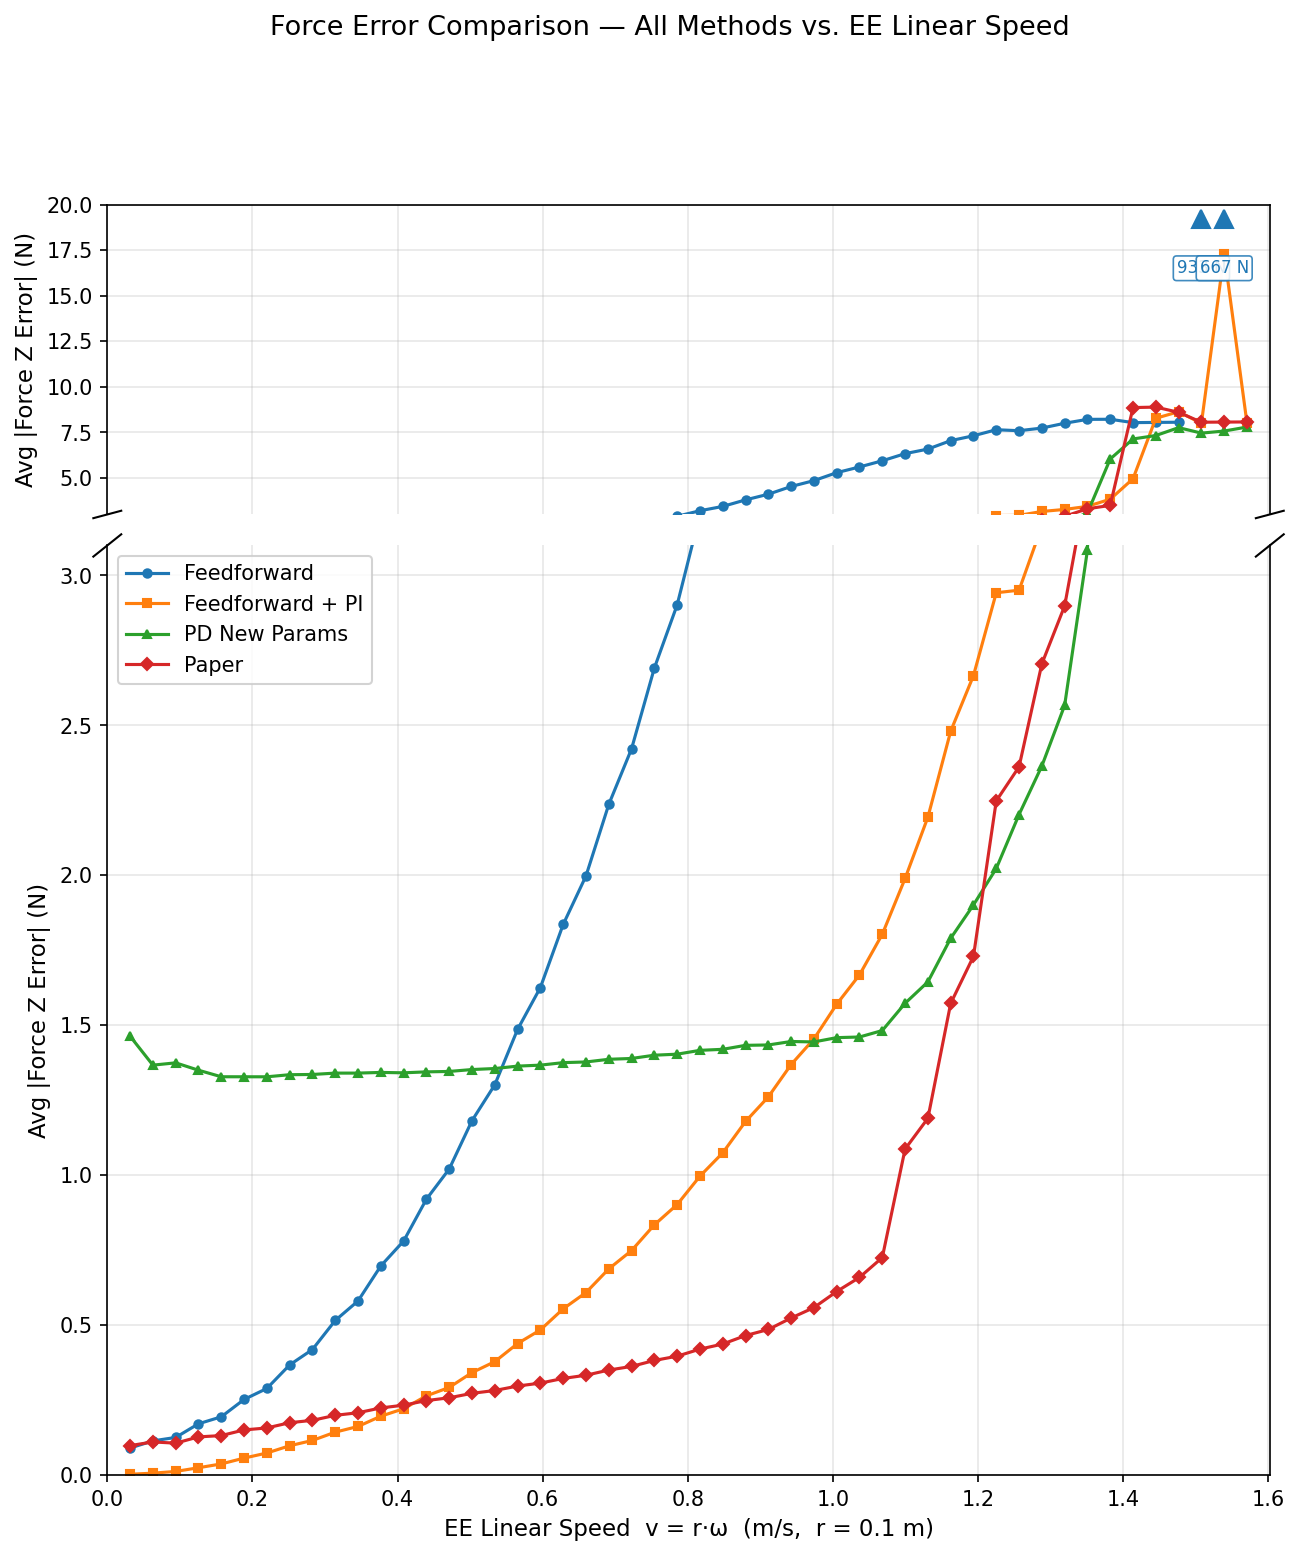
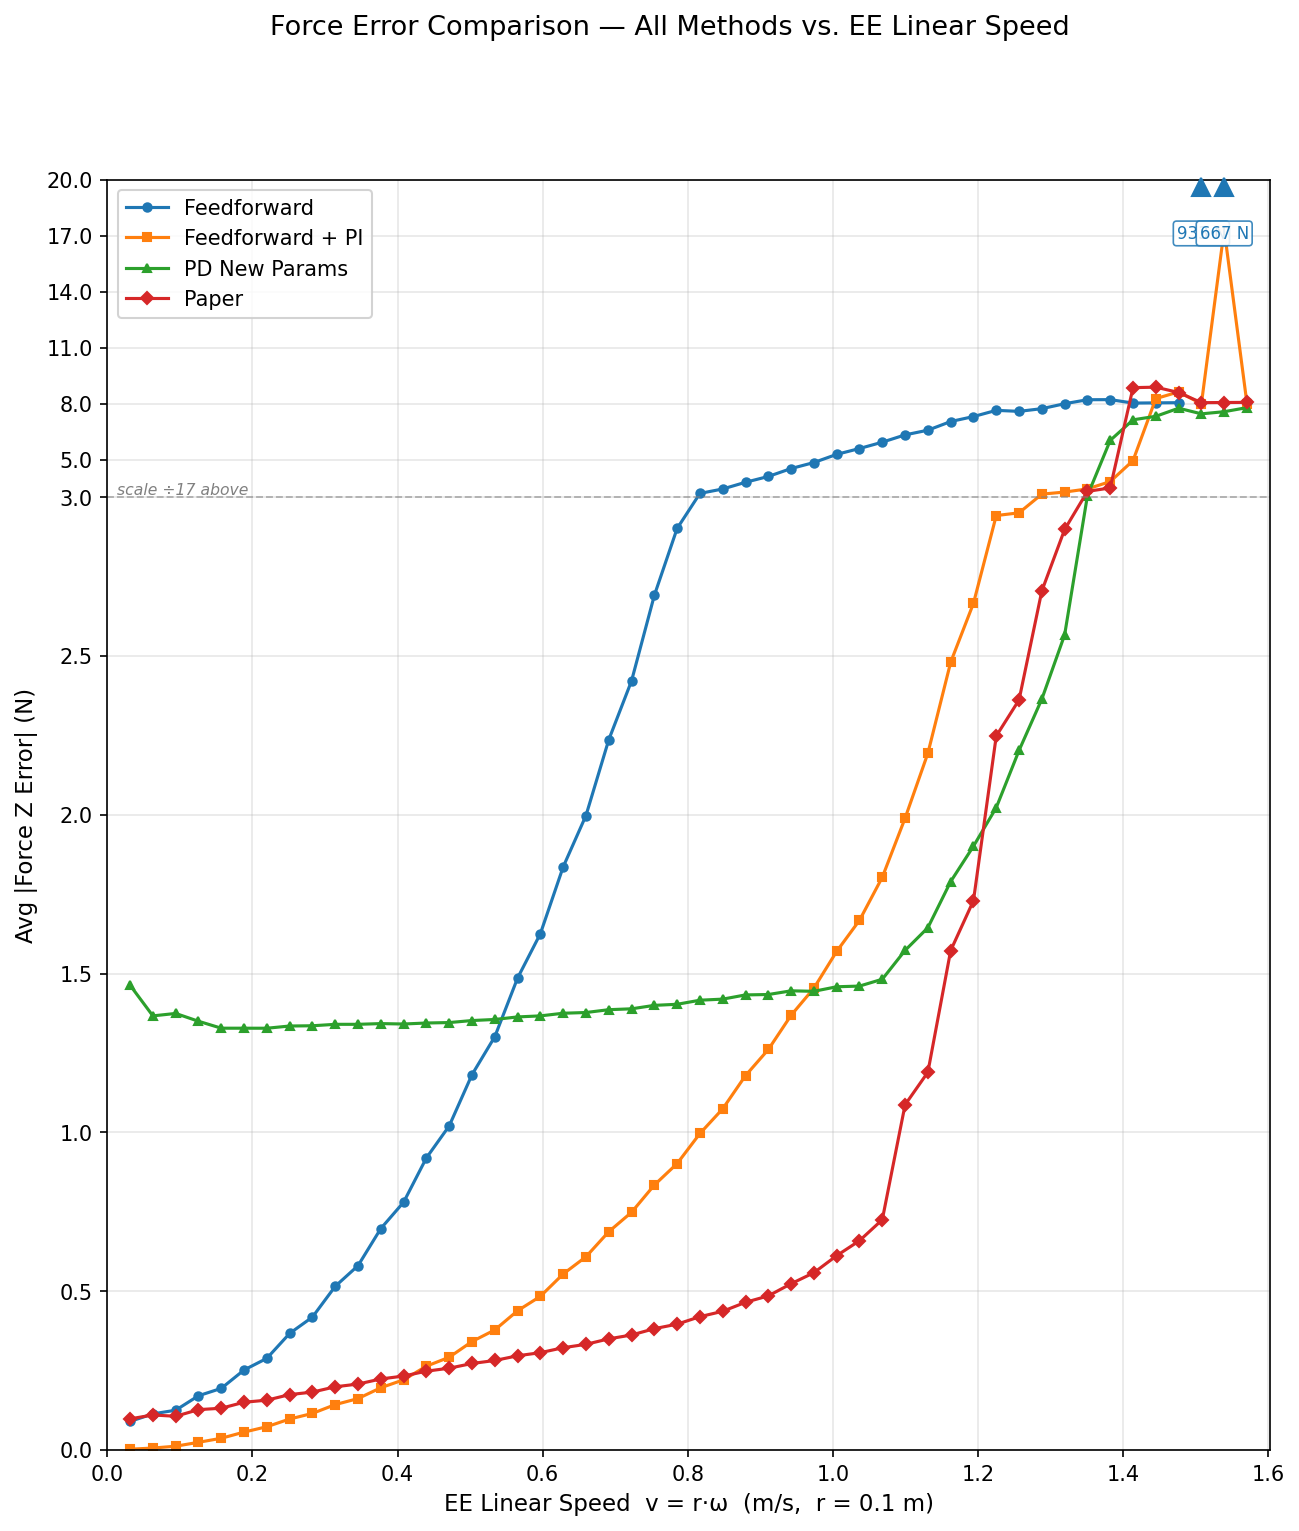
Replace broken axis with piecewise linear y-scale
Switch from two-subplot broken axis to a single continuous axis using
matplotlib FuncScale with a piecewise linear transform. 0–3 N occupies
~75% of the axis height (slope 1), 3–20 N is compressed 17× (slope 1/17),
matching the previous height_ratios=[1,3] visually without the // marks.

https://claude.ai/code/session_01QdQpPofsWMQJesNikDa1uv

diff --git a/angular_speed_sweep/plot_force_error_comparison.py b/angular_speed_sweep/plot_force_error_comparison.py
@@ -1,10 +1,12 @@
 """Compare avg force Z error across 4 control methods vs EE linear speed.
 
-Produces a broken-axis plot:
-  - Top panel  (short, compressed): y = 3–20 N
-  - Bottom panel (tall, detailed) : y = 0–3.1 N
-Extreme feedforward outliers (~932 N, ~667 N) are clipped to the top of the
-upper panel and annotated with their actual values.
+Produces a single-axis plot with a piecewise linear y-scale:
+  - y = 0–3 N  : full linear detail  (normal slope, tall)
+  - y = 3–20 N : compressed linear   (slope ÷17, ~25% of axis height)
+
+This matches the visual emphasis of the previous broken-axis version while
+keeping a single continuous y-axis.  Extreme feedforward outliers (~932 N,
+~667 N) are clipped to TOP_MAX and annotated.
 
 Usage:
     python angular_speed_sweep/plot_force_error_comparison.py
@@ -17,7 +19,7 @@ import csv
 import os
 import numpy as np
 import matplotlib.pyplot as plt
-import matplotlib.gridspec as gridspec
+import matplotlib.ticker as ticker
 
 SCRIPT_DIR = os.path.dirname(os.path.abspath(__file__))
 PLOTS_DIR = os.path.join(SCRIPT_DIR, "plots")
@@ -30,10 +32,22 @@ METHODS = [
     ("Paper",            os.path.join(PLOTS_DIR, "paper",            "sweep_results.csv"), "tab:red",    "D"),
 ]
 
-# y-axis break: show 0..BOT_MAX in detail, BOT_MAX..TOP_MAX compressed.
-BOT_MAX = 3.1
-TOP_MAX = 20.0
-BREAK_Y = 3.0
+# Piecewise linear scale parameters
+BREAK    = 3.0   # N — inflection point
+COMPRESS = 17.0  # above BREAK: each N takes 1/17 of a normal N's visual height
+TOP_MAX  = 20.0  # N — axis ceiling (extreme outliers annotated separately)
+
+
+def forward(y):
+    """Data → display transform (piecewise linear)."""
+    y = np.asarray(y, dtype=float)
+    return np.where(y <= BREAK, y, BREAK + (y - BREAK) / COMPRESS)
+
+
+def inverse(z):
+    """Display → data transform (inverse of forward)."""
+    z = np.asarray(z, dtype=float)
+    return np.where(z <= BREAK, z, BREAK + (z - BREAK) * COMPRESS)
 
 
 def load_csv(path):
@@ -50,82 +64,60 @@ def load_csv(path):
 
 
 def main():
-    # ── Load all four datasets ────────────────────────────────────────────────
+    # ── Load data ─────────────────────────────────────────────────────────────
     datasets = []
     for name, path, color, marker in METHODS:
         v, err = load_csv(path)
         datasets.append((name, v, err, color, marker))
 
-    # ── Figure with broken y-axis ─────────────────────────────────────────────
-    fig = plt.figure(figsize=(10, 11))
-    gs = gridspec.GridSpec(2, 1, height_ratios=[1, 3], hspace=0.05)
-    ax_top = fig.add_subplot(gs[0])  # y: BREAK_Y .. TOP_MAX
-    ax_bot = fig.add_subplot(gs[1])  # y: 0 .. BOT_MAX
+    # ── Figure ────────────────────────────────────────────────────────────────
+    fig, ax = plt.subplots(figsize=(10, 11))
 
-    # ── Plot all methods on both panels ───────────────────────────────────────
+    # ── Plot all 4 methods (clip extreme outliers to NaN so they don't distort)
     for name, v, err, color, marker in datasets:
-        # Clip values above TOP_MAX so they don't mess up axes (handled separately)
-        err_clipped = np.where(err > TOP_MAX, np.nan, err)
+        err_plot = np.where(err > TOP_MAX, np.nan, err)
+        ax.plot(v, err_plot, marker=marker, color=color, label=name,
+                linewidth=1.5, markersize=4, markerfacecolor=color)
 
-        kw = dict(color=color, linewidth=1.5, markersize=4,
-                  marker=marker, markerfacecolor=color)
-        ax_top.plot(v, err_clipped, label=name, **kw)
-        ax_bot.plot(v, err_clipped, label=name, **kw)
+    # ── Apply piecewise linear y-scale ────────────────────────────────────────
+    ax.set_yscale("function", functions=(forward, inverse))
+    ax.set_ylim(0.0, TOP_MAX)
 
-    # ── Annotate extreme feedforward outliers ─────────────────────────────────
-    # feedforward: spikes at v≈1.508 (932 N) and v≈1.539 (667 N)
+    # ── Manual y-ticks: dense below BREAK, sparse above ───────────────────────
+    ax.set_yticks([0, 0.5, 1.0, 1.5, 2.0, 2.5, 3.0, 5, 8, 11, 14, 17, 20])
+    ax.yaxis.set_major_formatter(ticker.ScalarFormatter())
+
+    # ── Inflection guide line at y = BREAK ────────────────────────────────────
+    ax.axhline(BREAK, color="gray", linestyle="--", linewidth=0.9, alpha=0.55)
+    ax.annotate(
+        f"  scale ÷{COMPRESS:.0f} above",
+        xy=(0.0, BREAK), xycoords=("axes fraction", "data"),
+        fontsize=7.5, color="gray", style="italic", va="bottom",
+    )
+
+    # ── Annotate extreme feedforward outliers (>TOP_MAX) ──────────────────────
     ff_name, ff_v, ff_err, ff_color, _ = datasets[0]  # feedforward is first
     outlier_mask = ff_err > TOP_MAX
     for xi, yi in zip(ff_v[outlier_mask], ff_err[outlier_mask]):
-        # Draw a clipped triangle marker pointing up at top of panel
-        ax_top.plot(xi, TOP_MAX * 0.96, marker="^", color=ff_color,
-                    markersize=9, clip_on=False, zorder=5)
-        ax_top.text(xi, TOP_MAX * 0.85, f"{yi:.0f} N",
-                    color=ff_color, fontsize=8, va="top", ha="center",
-                    bbox=dict(boxstyle="round,pad=0.2", fc="white", ec=ff_color,
-                              lw=0.8, alpha=0.85))
+        ax.plot(xi, TOP_MAX * 0.98, marker="^", color=ff_color,
+                markersize=9, zorder=5, clip_on=False)
+        ax.text(
+            xi, TOP_MAX * 0.88, f"{yi:.0f} N",
+            color=ff_color, fontsize=8, ha="center", va="top",
+            bbox=dict(boxstyle="round,pad=0.2", fc="white",
+                      ec=ff_color, lw=0.8, alpha=0.85),
+        )
 
-    # ── Axis limits ───────────────────────────────────────────────────────────
-    ax_top.set_ylim(BREAK_Y, TOP_MAX)
-    ax_bot.set_ylim(0.0, BOT_MAX)
-
-    # Share x-axis range
-    x_min = 0.0
-    x_max = max(v.max() for _, v, _, _, _ in datasets) * 1.02
-    for ax in (ax_top, ax_bot):
-        ax.set_xlim(x_min, x_max)
-        ax.grid(True, alpha=0.3)
-
-    # ── Broken-axis cosmetics ─────────────────────────────────────────────────
-    ax_top.spines["bottom"].set_visible(False)
-    ax_bot.spines["top"].set_visible(False)
-    ax_top.tick_params(bottom=False, labelbottom=False)
-
-    # Diagonal break marks at the boundary between the two panels
-    d = 0.012  # fraction of axis size
-    kw_break = dict(color="k", clip_on=False, linewidth=1, transform=None)
-
-    for ax, ypos in [(ax_top, 0), (ax_bot, 1)]:
-        kw_break["transform"] = ax.transAxes
-        ax.plot((-d, +d), (ypos - d, ypos + d), **kw_break)
-        ax.plot((1 - d, 1 + d), (ypos - d, ypos + d), **kw_break)
-
-    # ── Labels and legend ─────────────────────────────────────────────────────
-    xlabel = "EE Linear Speed  v = r·ω  (m/s,  r = 0.1 m)"
-    ylabel = "Avg |Force Z Error| (N)"
-
-    ax_bot.set_xlabel(xlabel, fontsize=11)
-    ax_bot.set_ylabel(ylabel, fontsize=11)
-    ax_top.set_ylabel(ylabel, fontsize=11)
-
-    # Single legend on the bottom panel
-    handles, labels = ax_bot.get_legend_handles_labels()
-    ax_bot.legend(handles, labels, loc="upper left", fontsize=10,
-                  framealpha=0.85)
+    # ── Labels, legend, grid ──────────────────────────────────────────────────
+    ax.set_xlim(0.0, max(v.max() for _, v, _, _, _ in datasets) * 1.02)
+    ax.set_xlabel("EE Linear Speed  v = r·ω  (m/s,  r = 0.1 m)", fontsize=11)
+    ax.set_ylabel("Avg |Force Z Error| (N)", fontsize=11)
+    ax.legend(loc="upper left", fontsize=10, framealpha=0.85)
+    ax.grid(True, alpha=0.3)
 
     fig.suptitle(
         "Force Error Comparison — All Methods vs. EE Linear Speed",
-        fontsize=13, y=0.995,
+        fontsize=13,
     )
 
     # ── Save ──────────────────────────────────────────────────────────────────
